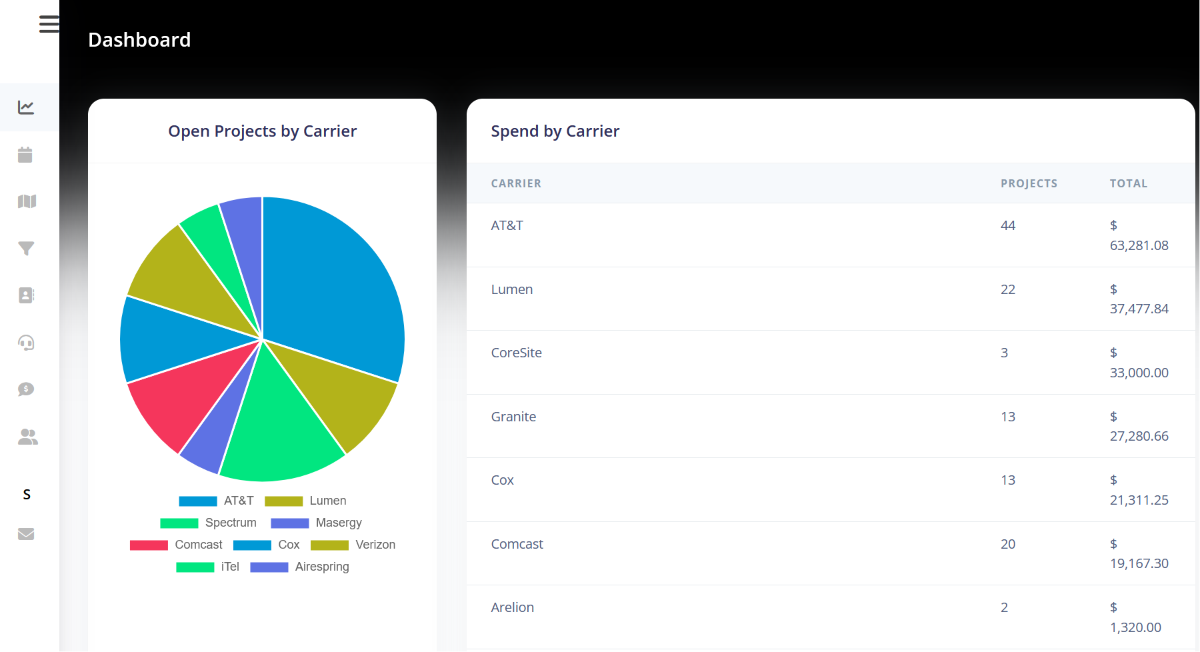
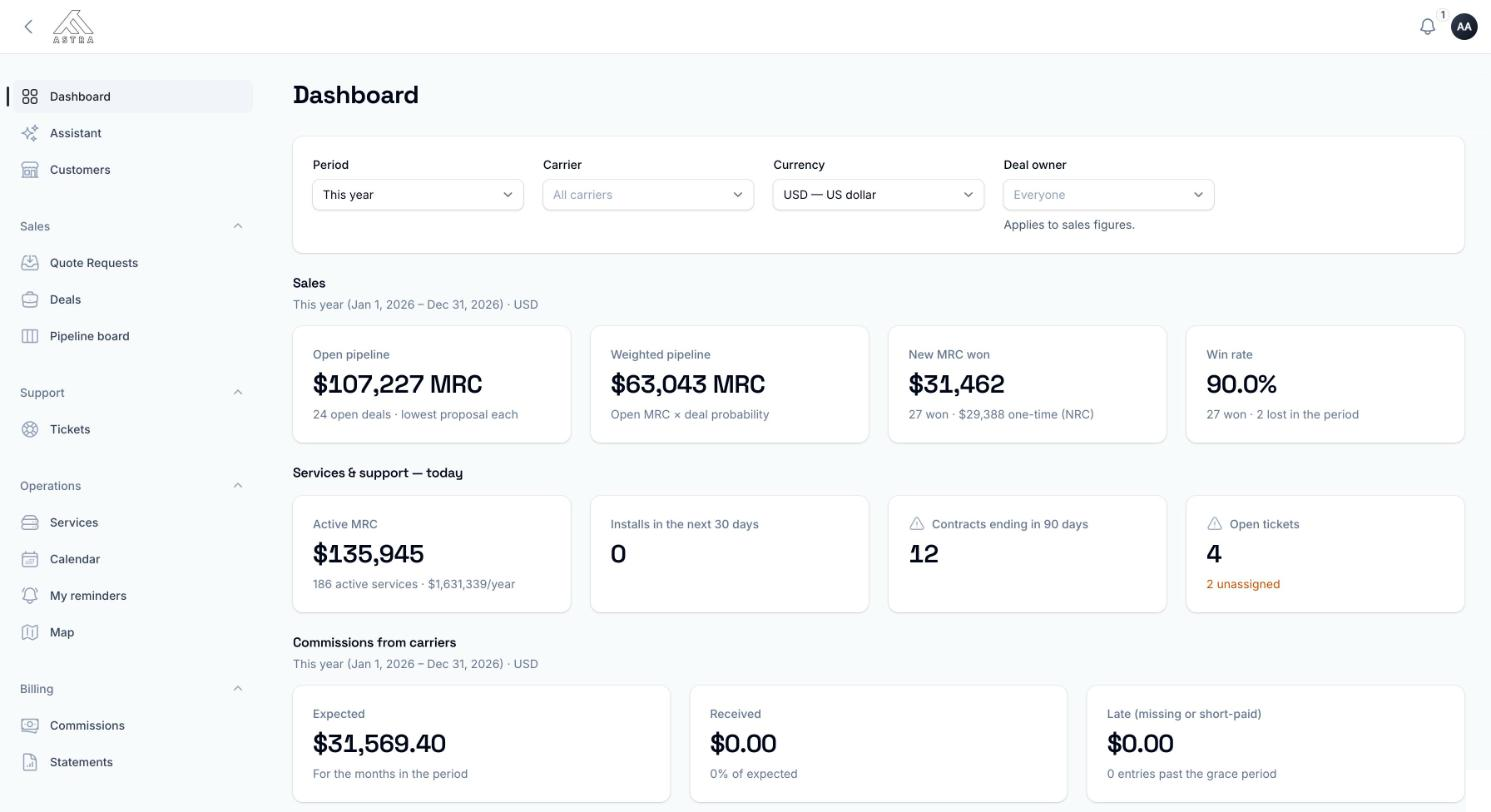
Update case study for Version 2.0 with new interface screenshots
Claude-Session: https://claude.ai/code/session_015ubm9PS2e37qKvbJMjG1ia

diff --git a/README.md b/README.md
@@ -1,9 +1,9 @@
-# ASTRA – B2B SaaS Platform Case Study
+# ASTRA: B2B SaaS Platform Case Study
 
 **Role:** Product Lead
 **Company:** Six Play Consulting
-**Timeline:** March 2023 – Present
-**Status:** Live in production, Version 2.0
+**Timeline:** March 2023 to Present
+**Status:** Live in production, Version 2.0 (redesigned interface with an AI assistant)
 
 ---
 
@@ -42,7 +42,7 @@ I owned this product from concept to production with no prior template.
 Pipeline management from initial quote through contract execution. Tracks customers, suppliers, probability to close, and anticipated close dates across all active opportunities.
 
 **Inventory Management**
-Full circuit inventory with identifier, product type, bandwidth, supplier, address, account number, and carrier circuit ID. Supports multi-currency reporting in USD, EUR, and CAD. Current portfolio: 185 units, $244K+ under management.
+Full circuit inventory with identifier, product type, bandwidth, supplier, address, account number, and carrier circuit ID. Supports multi-currency reporting in USD, EUR, and CAD.
 
 **Quotes**
 Quote request tracking by product, bandwidth, location, and P2P requirements. Built-in approval workflow and status tracking from request to resolution.
@@ -58,6 +58,20 @@ Integrated support ticket system tied to specific carriers and products. Tracks 
 
 ---
 
+## What's New in Version 2.0
+
+Version 2.0 is a full redesign of the interface plus several new modules:
+
+- **AI Assistant:** ask plain language questions about the pipeline, services, contracts ending, support, or commissions, for the whole company or for one customer, with answers grounded in the data the user can see
+- **Executive dashboard:** live sales, services, and commission KPIs filterable by period, carrier, currency, and deal owner
+- **Pipeline board:** drag and drop deal stages from pricing requested through contract signed, with deal probability and monthly value on every card
+- **Ticket inbox:** queue views for my open, unassigned, unread, waiting, and solved tickets, tied to customer, carrier, and circuit
+- **Carrier commissions and statements:** tracks expected versus received commissions and flags late or short paid entries
+- **Operations tools:** calendar, reminders, and an interactive service map
+- **Security and privacy:** two factor authentication, LGPD and CCPA/CPRA ready
+
+---
+
 ## Results
 
 - 100% client retention across the full rollout period
@@ -69,19 +83,38 @@ Integrated support ticket system tied to specific carriers and products. Tracks 
 
 ## Screenshots
 
-*Screenshots show sanitized demo environment. Client names and financial details have been redacted.*
+*All screenshots show illustrative data. Client names, sites, people, circuit identifiers, and dollar amounts have been replaced with fictional values.*
 
-**Dashboard – Pipeline Overview**
+### Version 2.0
+
+**Sign in**
+![Sign in](screenshots/login.png)
+
+**Executive Dashboard**
 ![Dashboard](screenshots/dashboard.png)
 
+**AI Assistant**
+![AI Assistant](screenshots/assistant.png)
+
+**Pipeline Board**
+![Pipeline board](screenshots/pipeline.png)
+
+**Ticket Inbox**
+![Tickets](screenshots/tickets.png)
+
+### Version 1.0
+
+**Dashboard: Pipeline Overview**
+![Dashboard V1](screenshots/v1/dashboard.png)
+
 **Inventory Report**
-![Inventory](screenshots/inventory.png)
+![Inventory](screenshots/v1/inventory.png)
 
 **Sales Funnel**
-![Funnel](screenshots/funnel.png)
+![Funnel](screenshots/v1/funnel.png)
 
 **Geographic Circuit Map**
-![Map](screenshots/map.png)
+![Map](screenshots/v1/map.png)
 
 ---
 
